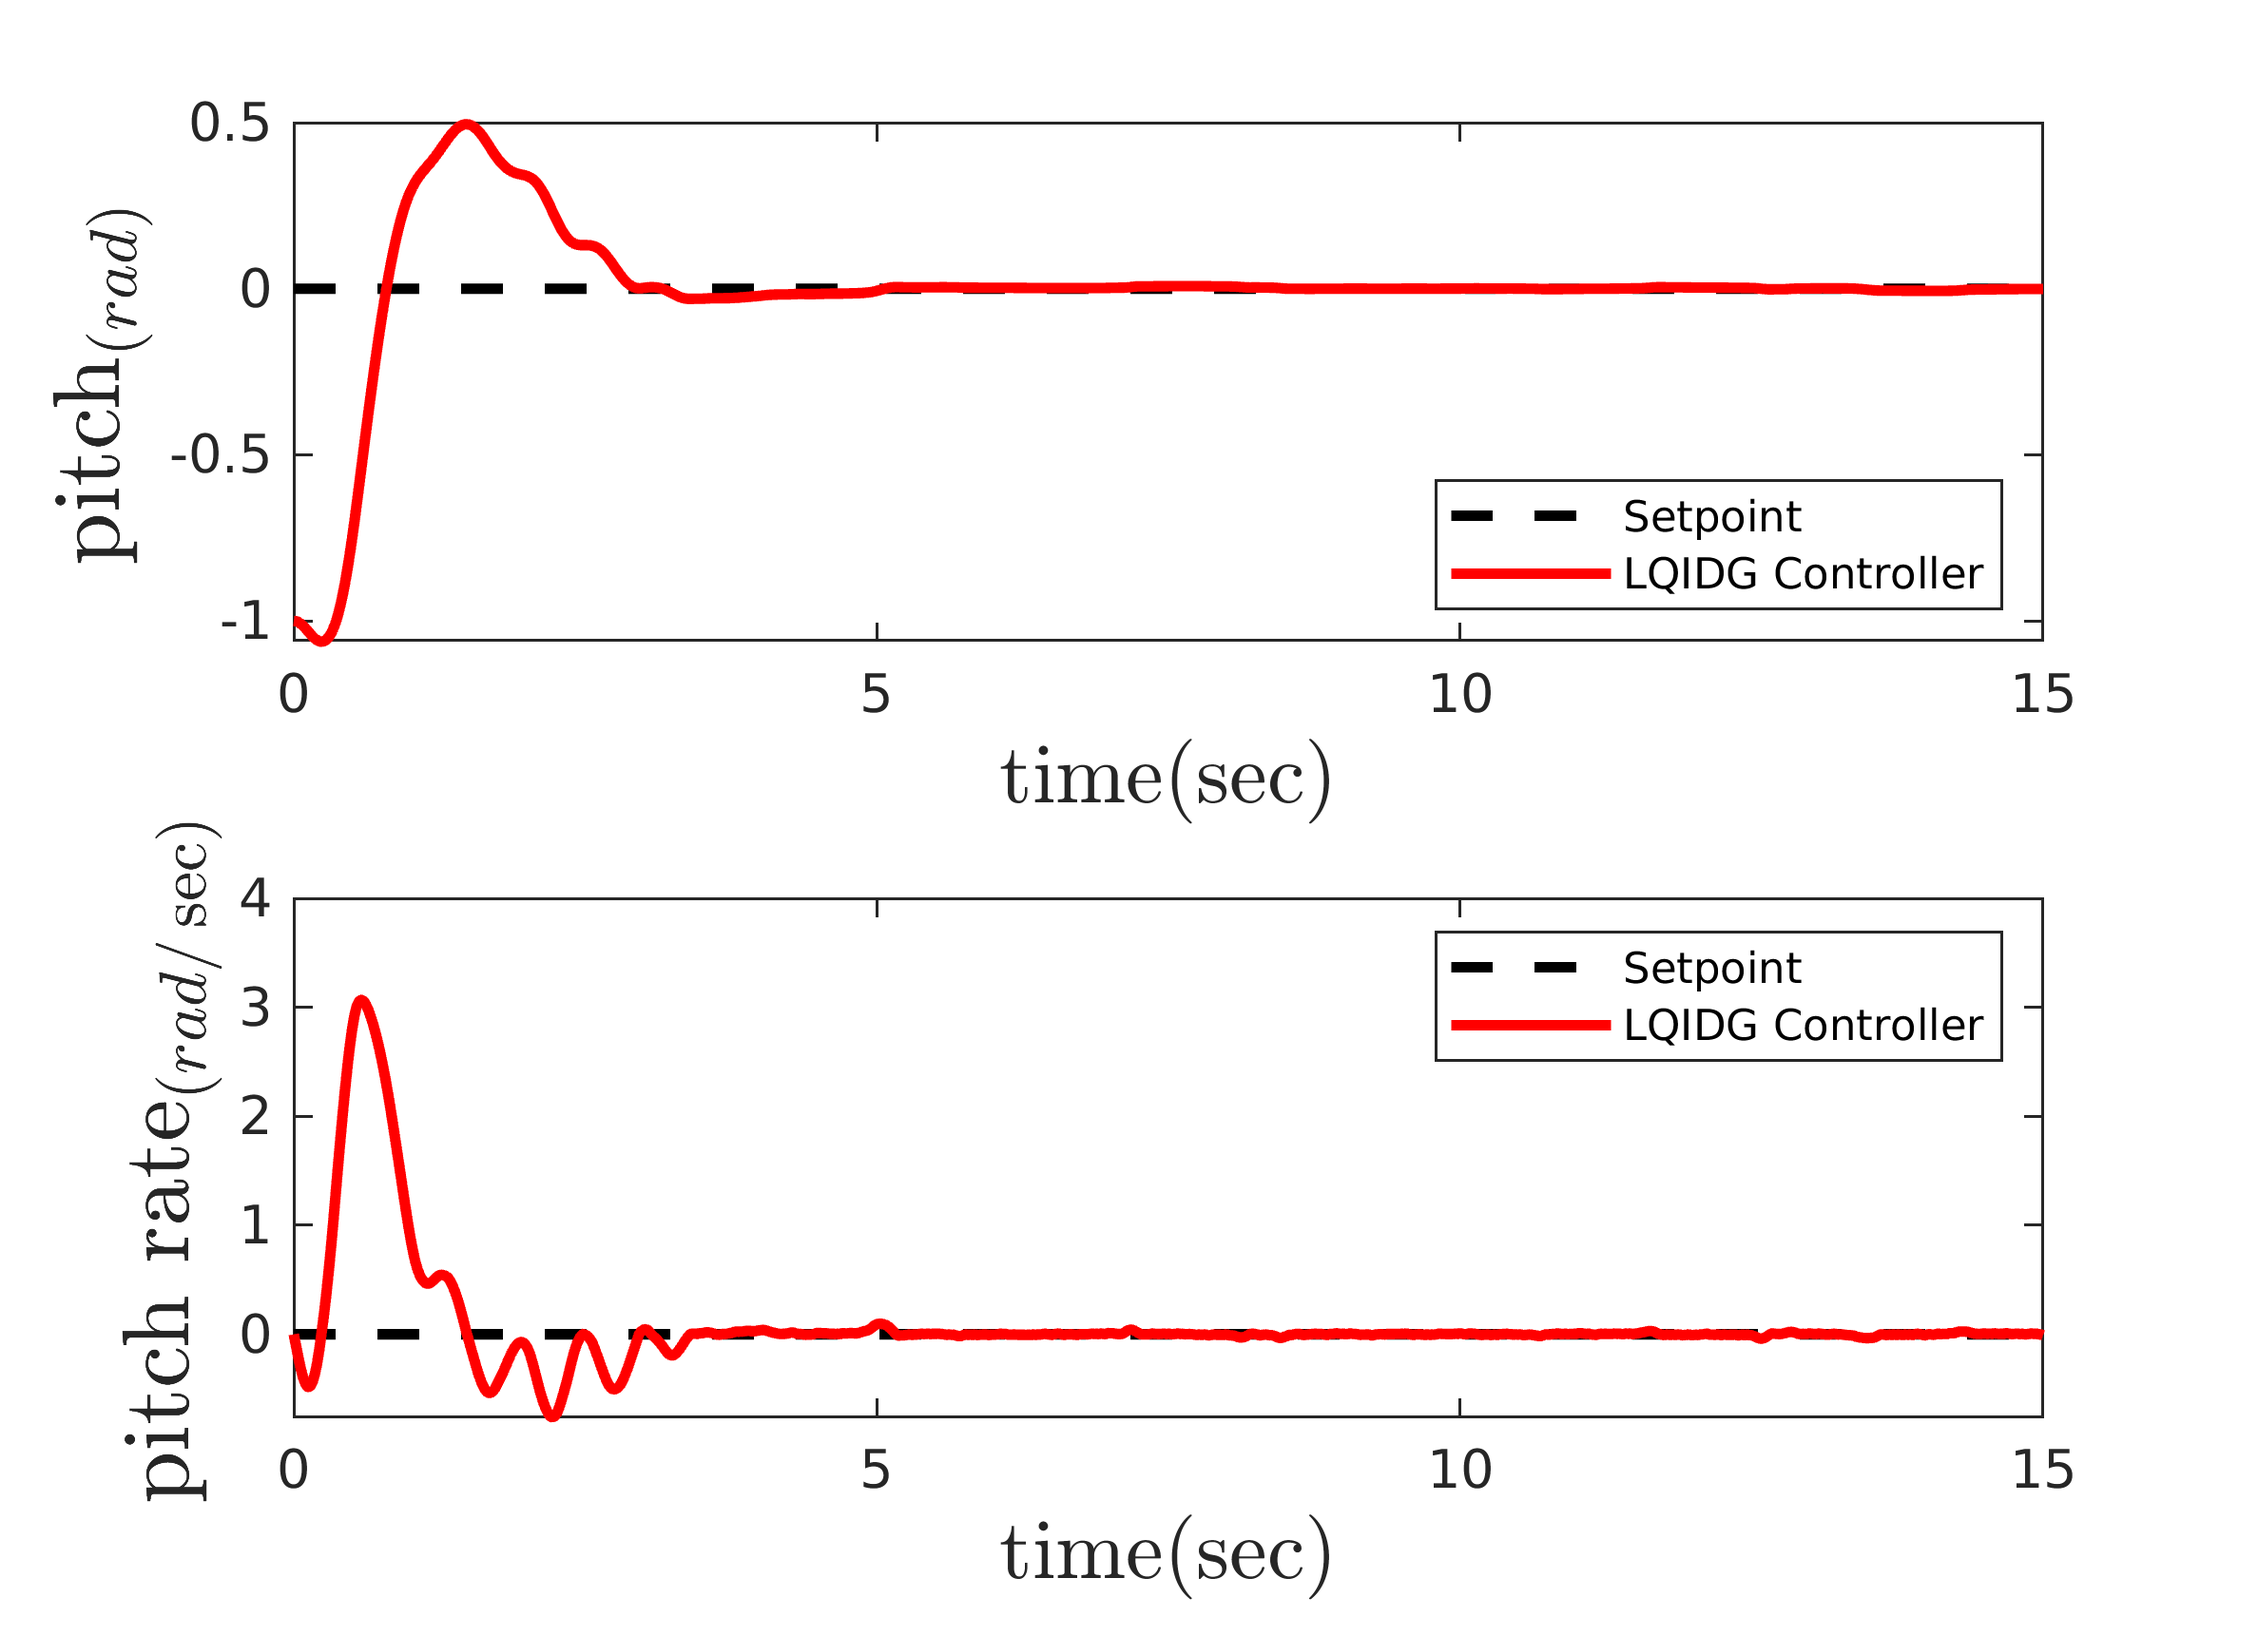
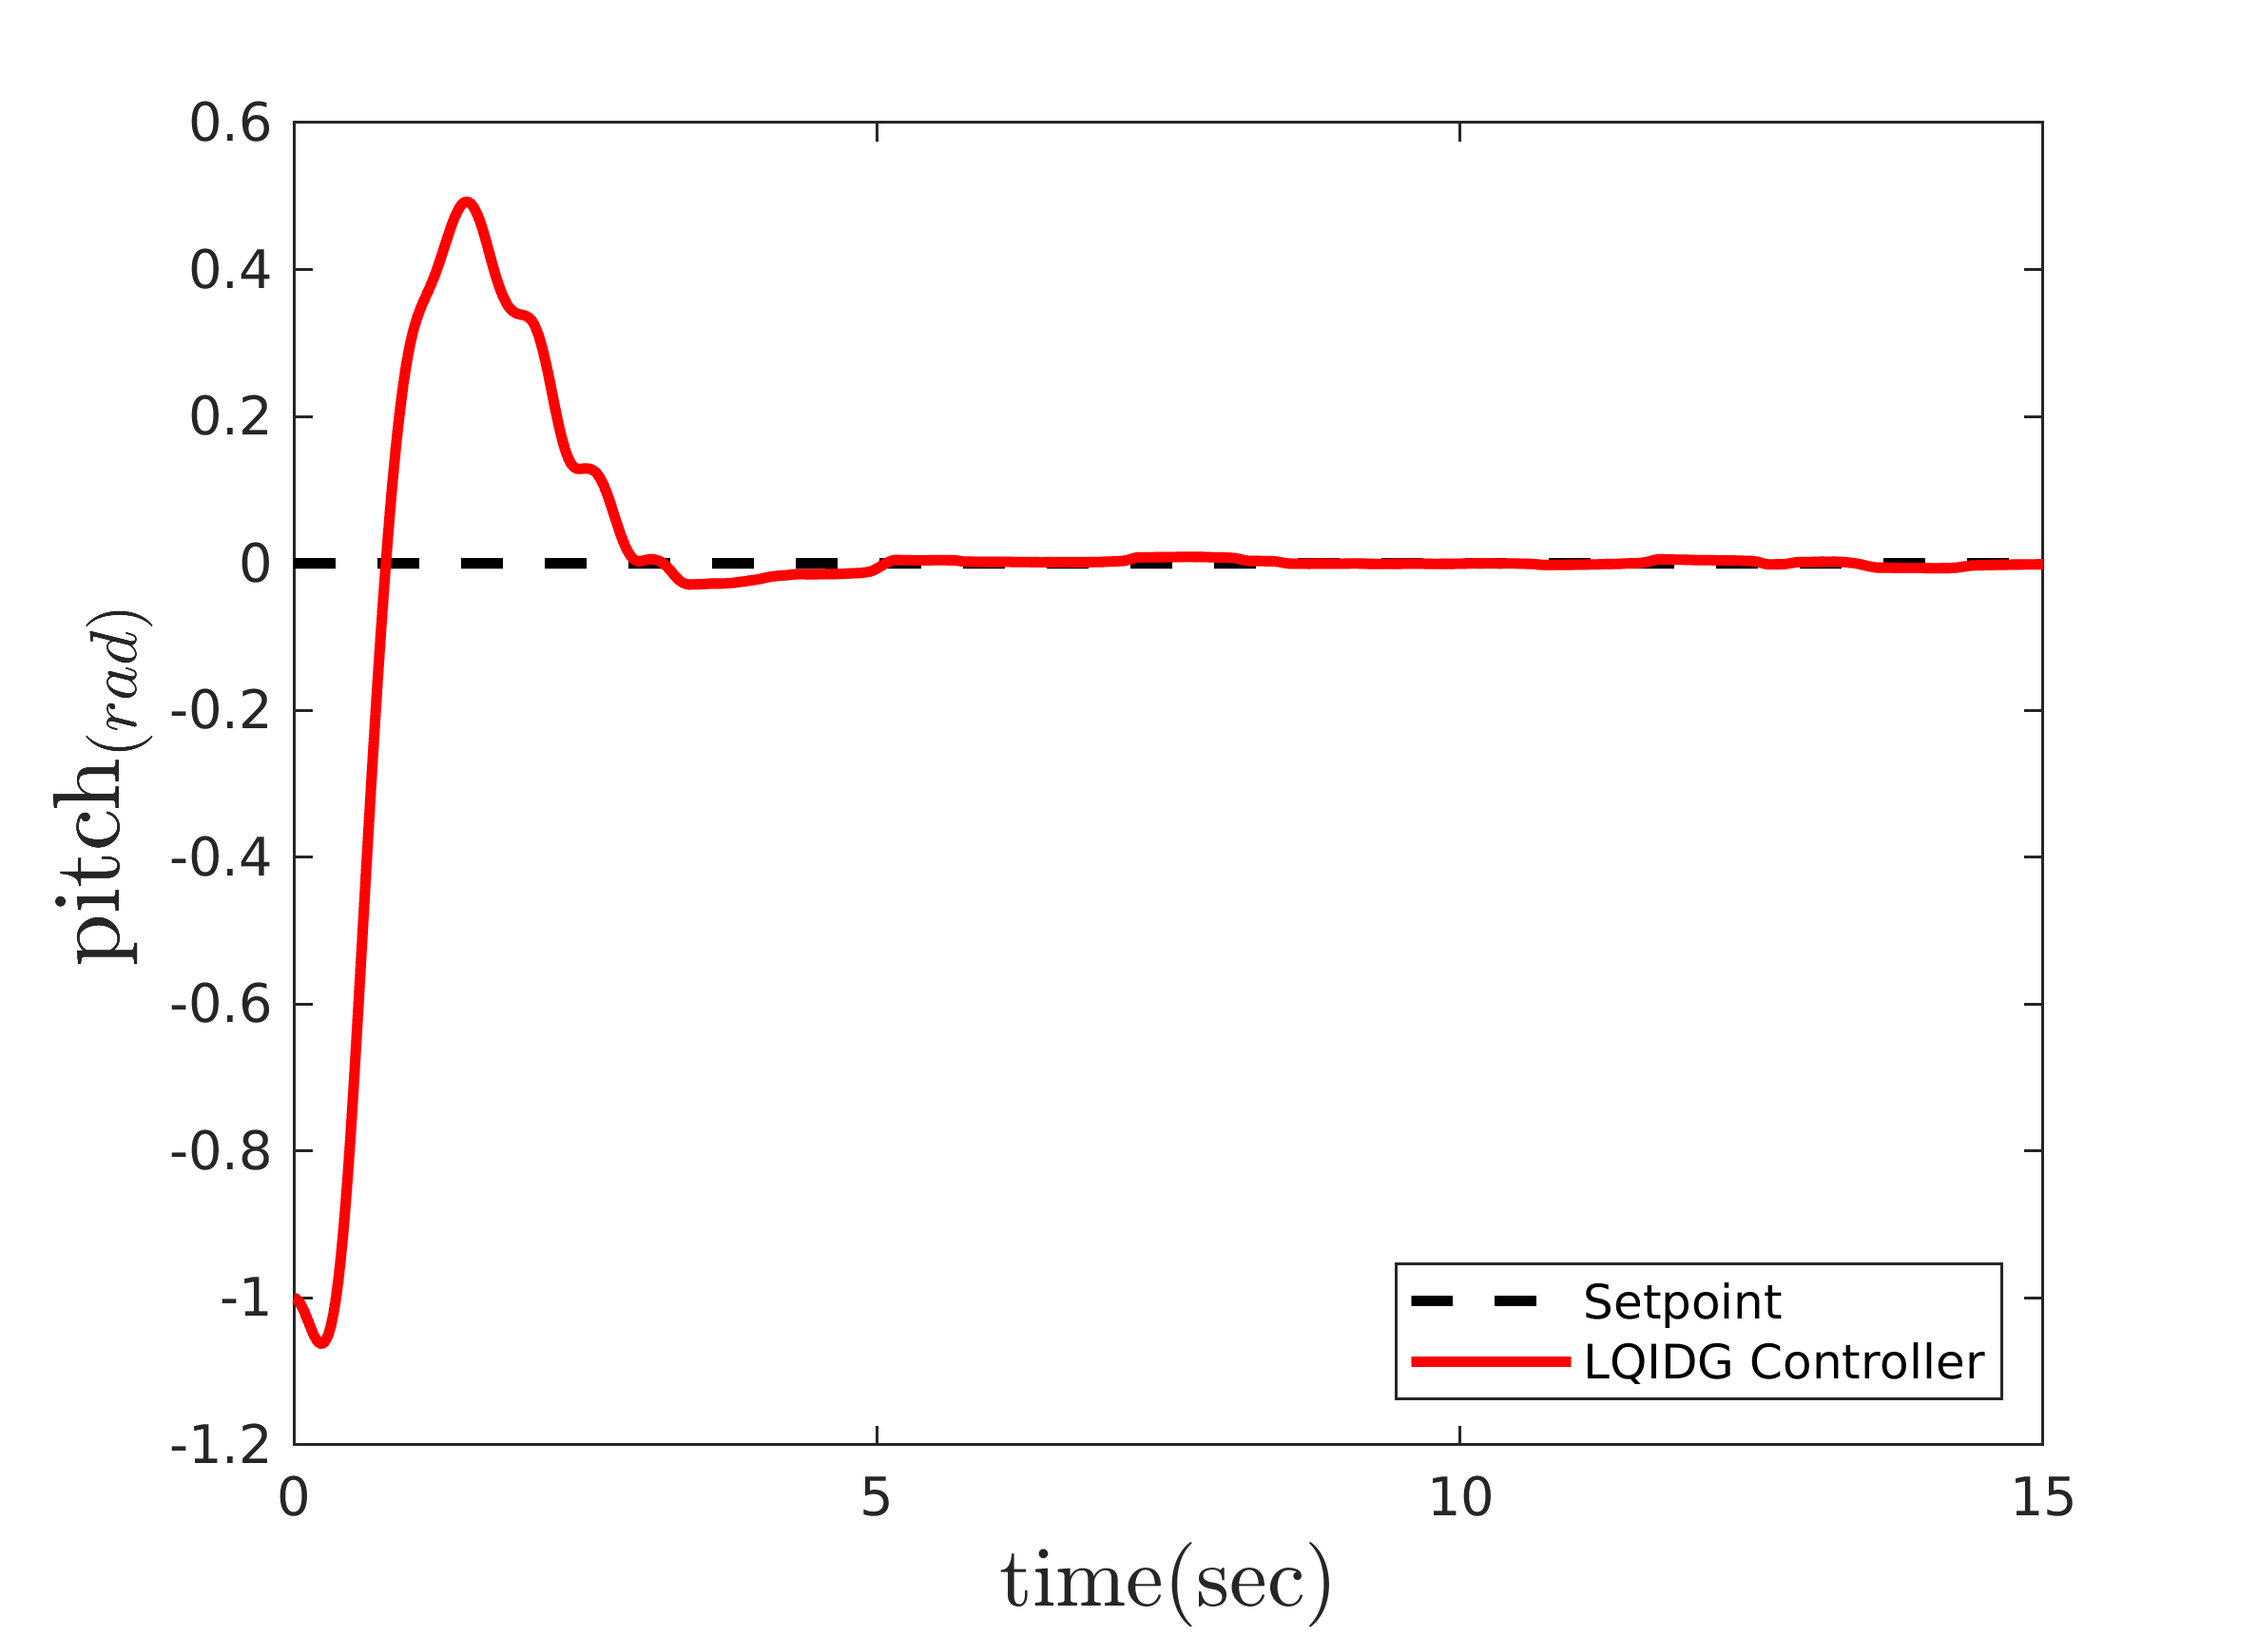
add Omega and delete rate from fig

diff --git a/Code/Simulink/Quadcopter/MIL/Nonlinear/SISO/LQIDG/Roll-Pitch-Yaw/roll_pitch_yaw_plot.m b/Code/Simulink/Quadcopter/MIL/Nonlinear/SISO/LQIDG/Roll-Pitch-Yaw/roll_pitch_yaw_plot.m
@@ -4,7 +4,7 @@ load('31-Mar-2022-21-41-01-LQIDG_3DOF10005.mat');
 weighting_matrix = XOpt;
 out = sim('Quadcopter_nonlinear_LQIDG');
 % roll
-subplot(2,1,1);
+% subplot(2,1,1);
 plot(out.tout, zeros(1, length(out.tout)), '--k', 'linewidth', 2);
 hold on;
 plot(out.tout, out.state(:, 1), 'r', 'linewidth', 2);
@@ -12,19 +12,19 @@ hold off;
 xlabel('time($\sec)$', 'interpreter', 'latex', 'FontSize', 16);
 ylabel('roll$_{(rad)}$', 'interpreter', 'latex', 'FontSize', 18);
 legend('Setpoint', 'LQIDG Controller', 'Location','southeast');
-subplot(2,1,2);
-plot(out.tout, zeros(1, length(out.tout)), '--k', 'linewidth', 2);
-hold on;
-plot(out.tout, out.state(:, 4), 'r', 'linewidth', 2);
-hold off;
-xlabel('time($\sec)$', 'interpreter', 'latex', 'FontSize', 16);
-ylabel('roll rate$_{(rad/\sec)}$', 'interpreter', 'latex', 'FontSize', 18);
-legend('Setpoint', 'LQIDG Controller', 'Location','northeast');
+% subplot(2,1,2);
+% plot(out.tout, zeros(1, length(out.tout)), '--k', 'linewidth', 2);
+% hold on;
+% plot(out.tout, out.state(:, 4), 'r', 'linewidth', 2);
+% hold off;
+% xlabel('time($\sec)$', 'interpreter', 'latex', 'FontSize', 16);
+% ylabel('roll rate$_{(rad/\sec)}$', 'interpreter', 'latex', 'FontSize', 18);
+% legend('Setpoint', 'LQIDG Controller', 'Location','northeast');
 
 print('../../../../../../../../Figures/MIL/LQIDG/3DOF/lqidg_roll.png','-dpng','-r400');
 
 % pitch
-subplot(2,1,1);
+% subplot(2,1,1);
 plot(out.tout, zeros(1, length(out.tout)), '--k', 'linewidth', 2);
 hold on;
 plot(out.tout, out.state(:, 2), 'r', 'linewidth', 2);
@@ -32,19 +32,19 @@ hold off;
 xlabel('time($\sec)$', 'interpreter', 'latex', 'FontSize', 16);
 ylabel('pitch$_{(rad)}$', 'interpreter', 'latex', 'FontSize', 18);
 legend('Setpoint', 'LQIDG Controller', 'Location','southeast');
-subplot(2,1,2);
-plot(out.tout, zeros(1, length(out.tout)), '--k', 'linewidth', 2);
-hold on;
-plot(out.tout, out.state(:, 5), 'r', 'linewidth', 2);
-hold off;
-xlabel('time($\sec)$', 'interpreter', 'latex', 'FontSize', 16);
-ylabel('pitch rate$_{(rad/\sec)}$', 'interpreter', 'latex', 'FontSize', 18);
-legend('Setpoint', 'LQIDG Controller', 'Location','northeast');
+% subplot(2,1,2);
+% plot(out.tout, zeros(1, length(out.tout)), '--k', 'linewidth', 2);
+% hold on;
+% plot(out.tout, out.state(:, 5), 'r', 'linewidth', 2);
+% hold off;
+% xlabel('time($\sec)$', 'interpreter', 'latex', 'FontSize', 16);
+% ylabel('pitch rate$_{(rad/\sec)}$', 'interpreter', 'latex', 'FontSize', 18);
+% legend('Setpoint', 'LQIDG Controller', 'Location','northeast');
 
 print('../../../../../../../../Figures/MIL/LQIDG/3DOF/lqidg_pitch.png','-dpng','-r400');
 
 % yaw
-subplot(2,1,1);
+% subplot(2,1,1);
 plot(out.tout, zeros(1, length(out.tout)), '--k', 'linewidth', 2);
 hold on;
 plot(out.tout, out.state(:, 3), 'r', 'linewidth', 2);
@@ -52,13 +52,30 @@ hold off;
 xlabel('time($\sec)$', 'interpreter', 'latex', 'FontSize', 16);
 ylabel('yaw$_{(rad)}$', 'interpreter', 'latex', 'FontSize', 18);
 legend('Setpoint', 'LQIDG Controller', 'Location','southeast');
-subplot(2,1,2);
-plot(out.tout, zeros(1, length(out.tout)), '--k', 'linewidth', 2);
-hold on;
-plot(out.tout, out.state(:, 6), 'r', 'linewidth', 2);
-hold off;
-xlabel('time($\sec)$', 'interpreter', 'latex', 'FontSize', 16);
-ylabel('yaw rate$_{(rad/\sec)}$', 'interpreter', 'latex', 'FontSize', 18);
-legend('Setpoint', 'LQIDG Controller', 'Location','northeast');
+% subplot(2,1,2);
+% plot(out.tout, zeros(1, length(out.tout)), '--k', 'linewidth', 2);
+% hold on;
+% plot(out.tout, out.state(:, 6), 'r', 'linewidth', 2);
+% hold off;
+% xlabel('time($\sec)$', 'interpreter', 'latex', 'FontSize', 16);
+% ylabel('yaw rate$_{(rad/\sec)}$', 'interpreter', 'latex', 'FontSize', 18);
+% legend('Setpoint', 'LQIDG Controller', 'Location','northeast');
 
-% print('../../../../../../../../Figures/MIL/LQIDG/3DOF/lqidg_yaw.png','-dpng','-r400');
+print('../../../../../../../../Figures/MIL/LQIDG/3DOF/lqidg_yaw.png','-dpng','-r400');
+
+plot(out.tout, out.Omega(:, 1), 'k');
+xlabel('time($\sec)$', 'interpreter', 'latex', 'FontSize', 16);
+ylabel('$\omega_{1_{(rad/\sec)}}$', 'interpreter', 'latex', 'FontSize', 18);
+print('../../../../../../../../Figures/MIL/LQIDG/3DOF/lqidg_roll_pitch_Omega_1.png','-dpng','-r400');
+plot(out.tout, out.Omega(:, 2), 'k');
+xlabel('time($\sec)$', 'interpreter', 'latex', 'FontSize', 16);
+ylabel('$\omega_{2_{(rad/\sec)}}$', 'interpreter', 'latex', 'FontSize', 18);
+print('../../../../../../../../Figures/MIL/LQIDG/3DOF/lqidg_roll_pitch_Omega_2.png','-dpng','-r400');
+plot(out.tout, out.Omega(:, 3), 'k');
+xlabel('time($\sec)$', 'interpreter', 'latex', 'FontSize', 16);
+ylabel('$\omega_{3_{(rad/\sec)}}$', 'interpreter', 'latex', 'FontSize', 18);
+print('../../../../../../../../Figures/MIL/LQIDG/3DOF/lqidg_roll_pitch_Omega_3.png','-dpng','-r400');
+plot(out.tout, out.Omega(:, 4), 'k');
+xlabel('time($\sec)$', 'interpreter', 'latex', 'FontSize', 16);
+ylabel('$\omega_{4_{(rad/\sec)}}$', 'interpreter', 'latex', 'FontSize', 18);
+print('../../../../../../../../Figures/MIL/LQIDG/3DOF/lqidg_roll_pitch_Omega_4.png','-dpng','-r400');

diff --git a/Code/Simulink/Quadcopter/MIL/Nonlinear/SISO/LQIDG/Roll-Pitch-Yaw/QuadConstants.m b/Code/Simulink/Quadcopter/MIL/Nonlinear/SISO/LQIDG/Roll-Pitch-Yaw/QuadConstants.m
@@ -4,7 +4,7 @@ A1 = (h_cg * g * m_tot) / (m_tot * h_cg^2 + J_xx);
 A2 = (2*m_tot * h_cg^2 + J_yy - J_zz) / (m_tot * h_cg^2 + J_xx);
 A3 = (b * d_cg) / (m_tot * h_cg^2 + J_xx);
 A4 = (J_R) / (m_tot * h_cg^2 + J_xx);
-% A5 = (m1 * g * miu_k * r_x) / (m_tot * h_cg^2 + J_xx);
+A5 = (m1 * g * miu_k * r_x) / (m_tot * h_cg^2 + J_xx);
 % B Constants
 B1 = (h_cg * g * m_tot) / (m_tot * h_cg^2 + J_yy);
 B2 = (-2*m_tot * h_cg^2 - J_xx + J_zz) / (m_tot * h_cg^2 + J_yy);

diff --git a/Code/Simulink/Quadcopter/MIL/Nonlinear/SISO/LQIDG/Roll-Pitch-Yaw/roll_pitch_yaw_parameter_estimation.m b/Code/Simulink/Quadcopter/MIL/Nonlinear/SISO/LQIDG/Roll-Pitch-Yaw/roll_pitch_yaw_parameter_estimation.m
@@ -3,7 +3,7 @@ A1 = 6.52172868745337;
 A2 = -1.56517460219627;
 A3 = 5.18692283683343e-05;
 A4 = 0.00249993776857667;
-A5 = -0.259645819519501;
+% A5 = -0.259645819519501;
 A6 = 1.37409031322133;
 % pitch parameter
 B1 = 4.36026813860301;
